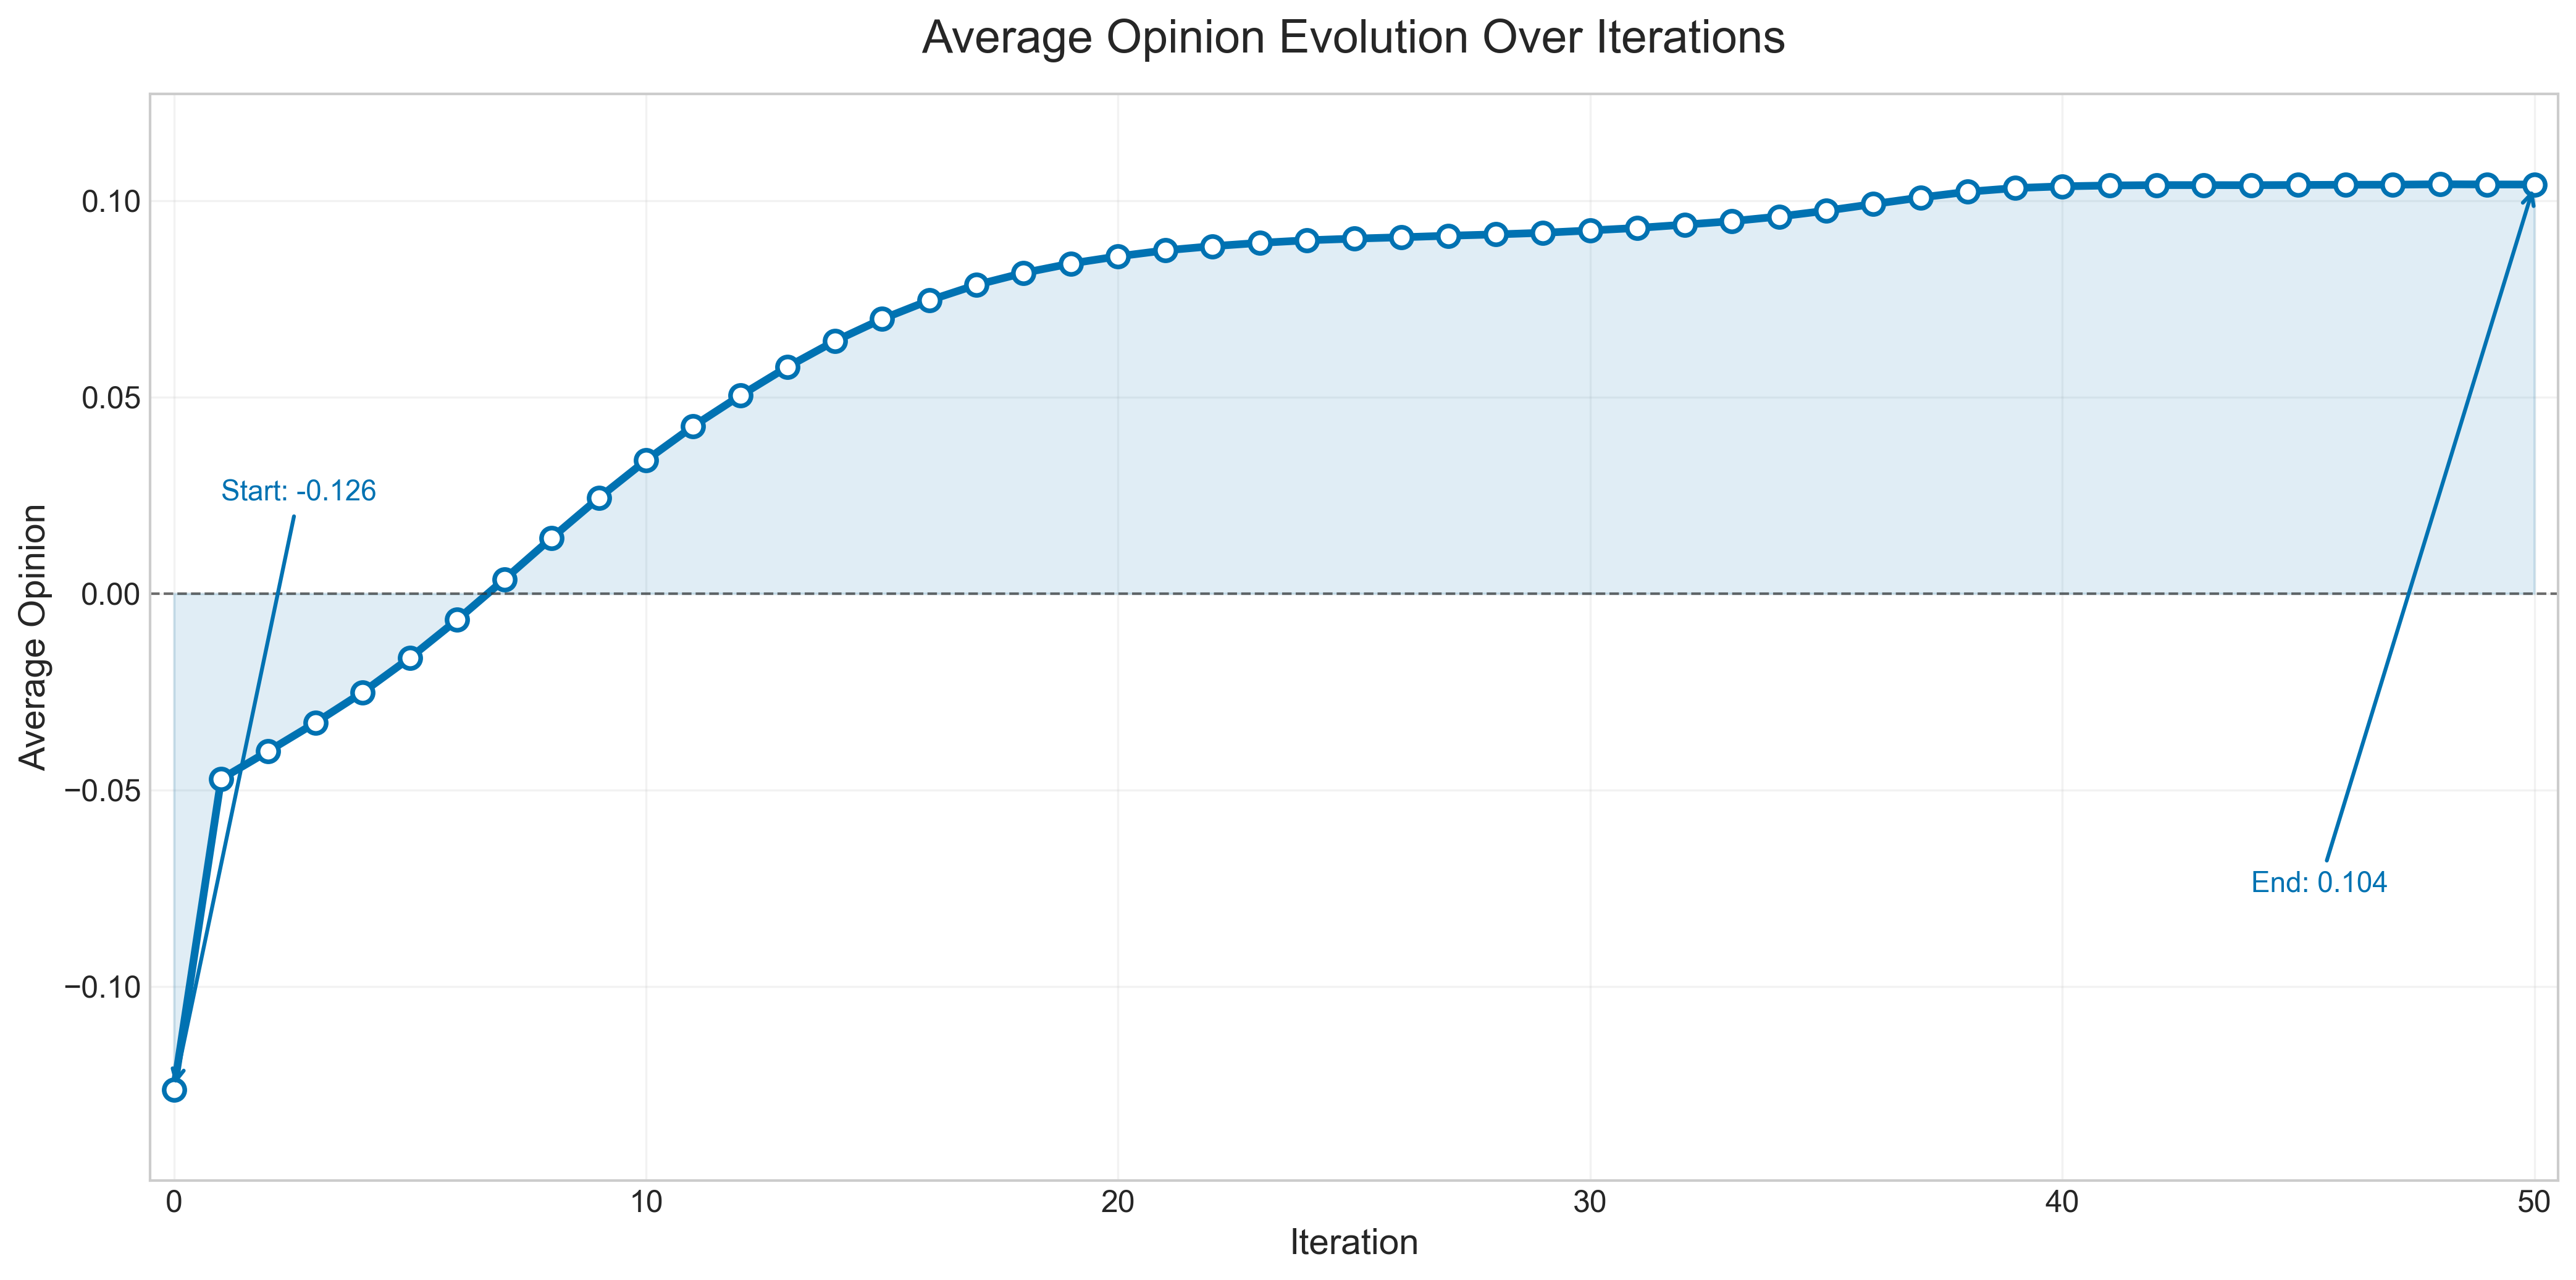
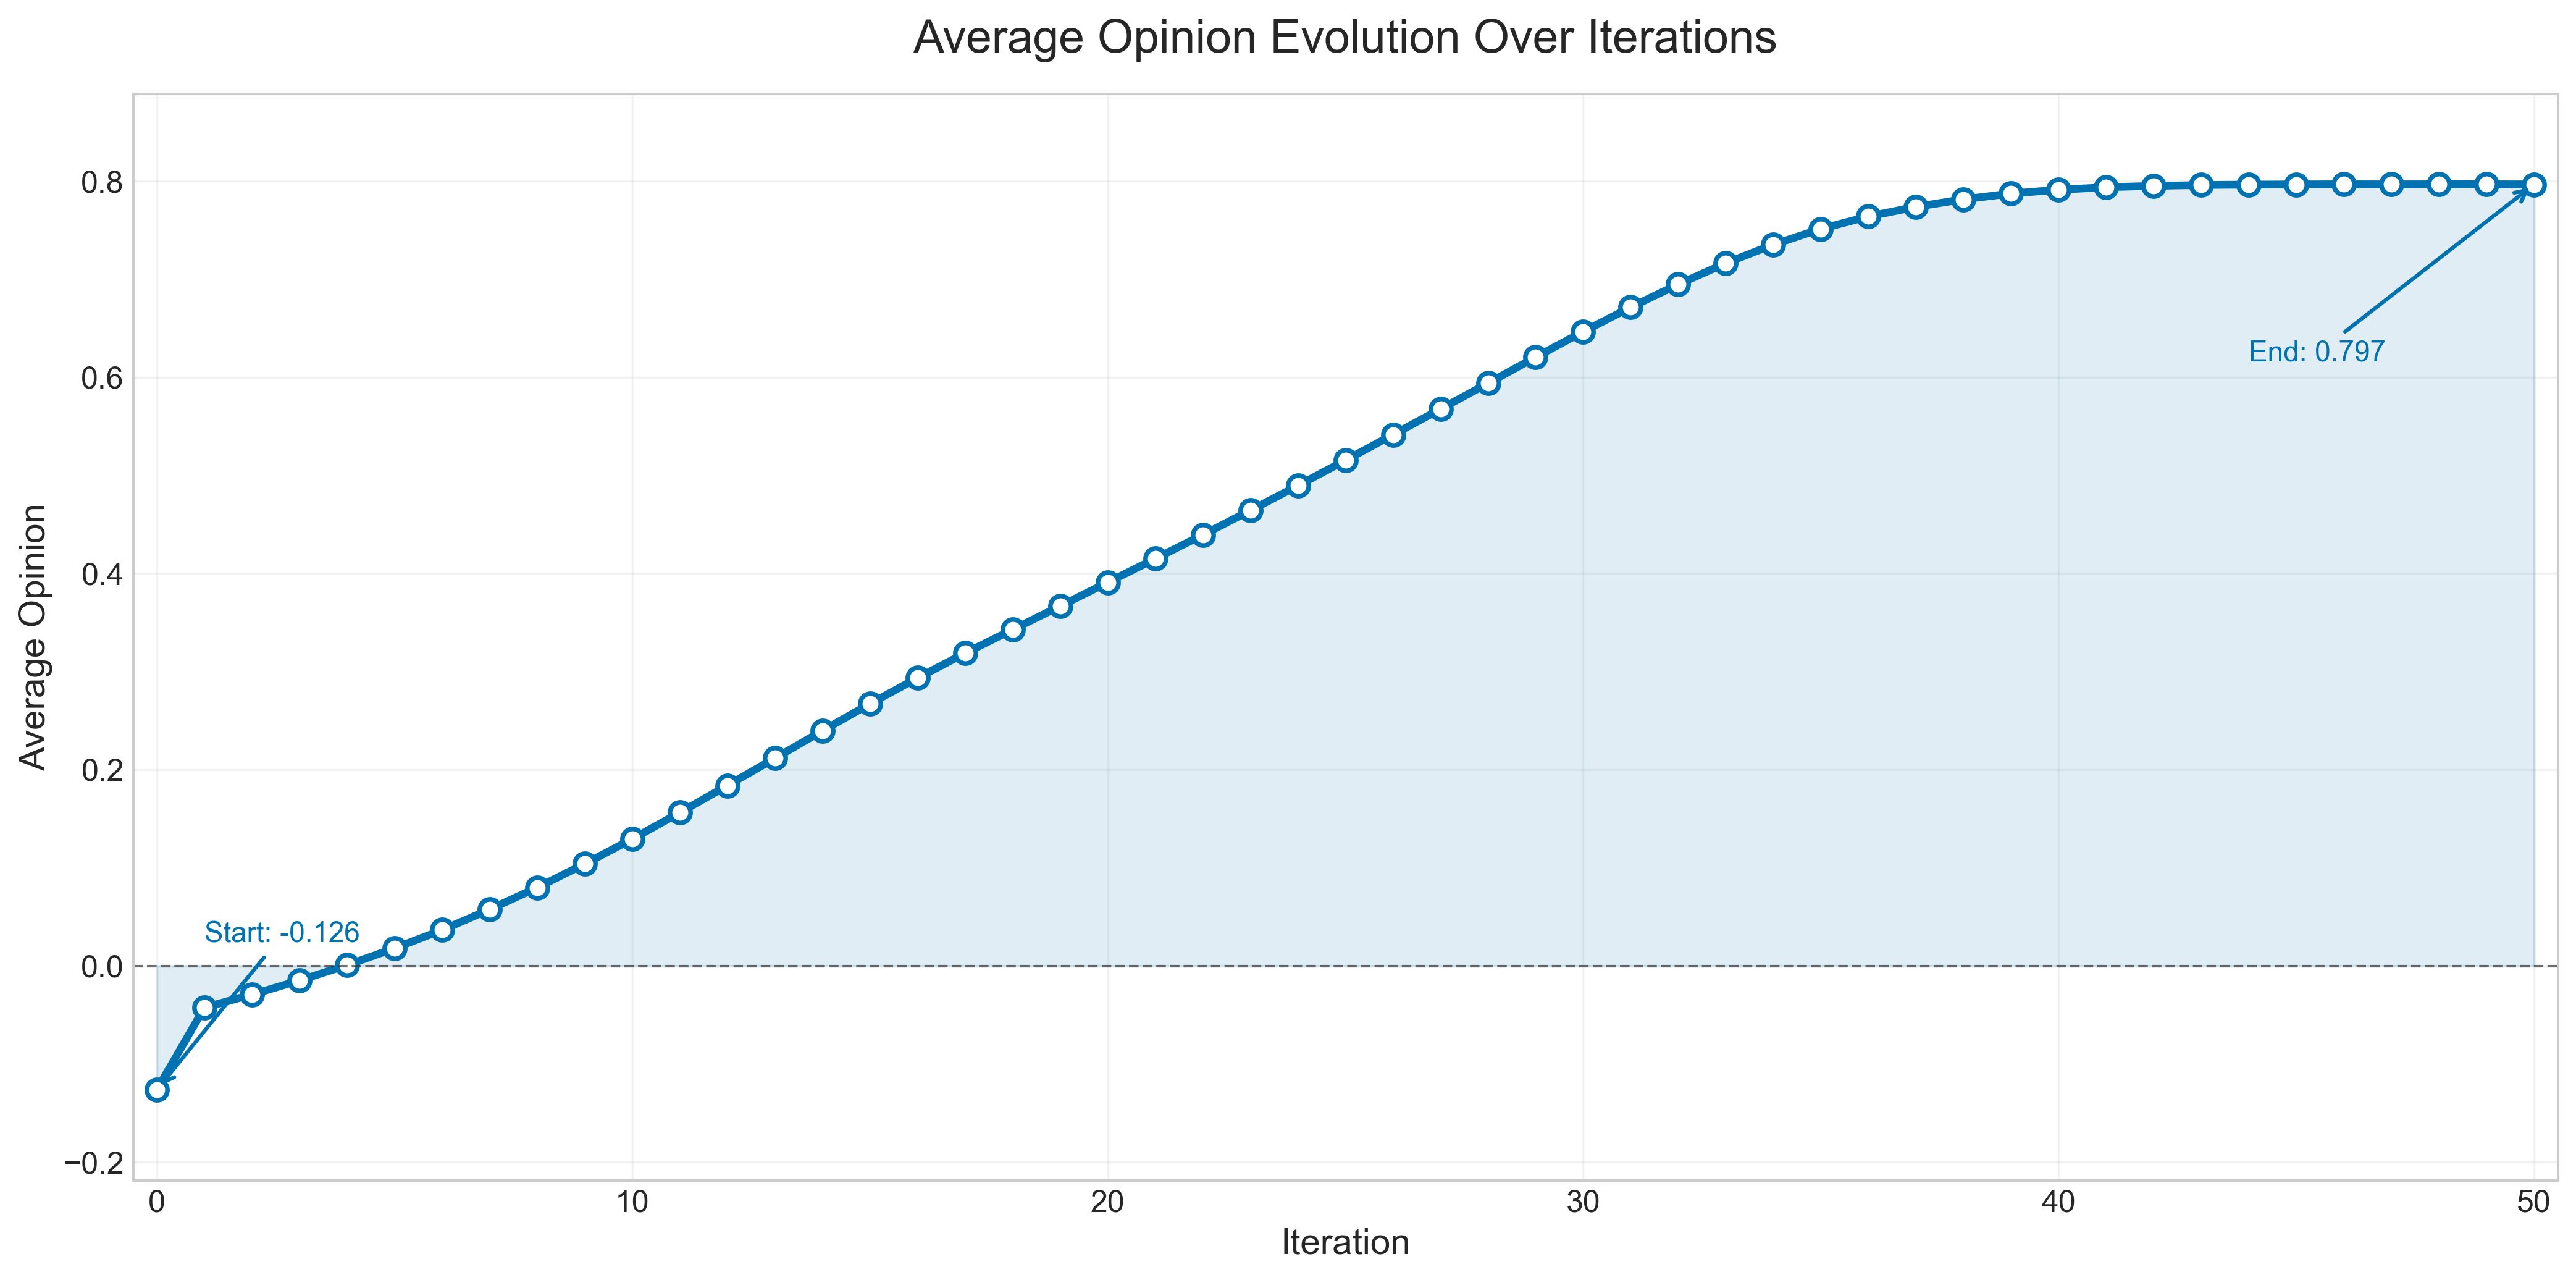
11 apr imdb complete amazon started

diff --git a/src/amazon.py b/src/amazon.py
@@ -1,0 +1,178 @@
+import pandas as pd
+import networkx as nx
+import random
+from tqdm import tqdm
+import os
+import math
+import nltk
+from nltk.sentiment import SentimentIntensityAnalyzer
+
+# =========================
+# DOWNLOAD (FIRST TIME ONLY)
+# =========================
+nltk.download('vader_lexicon')
+sia = SentimentIntensityAnalyzer()
+
+# =========================
+# PARAMETERS
+# =========================
+NUM_ITERATIONS = 50
+REVIEWS_PER_ITER = 100
+
+alpha = 0.3   # neighbors influence (recommended)
+beta = 0.2    # reviews influence
+
+base_path = r"D:\SEM-6\Project\data\raw"
+
+# =========================
+# LOAD FILES
+# =========================
+edges_df = pd.read_csv(os.path.join(base_path, "social_network.csv"))
+users_df = pd.read_csv(os.path.join(base_path, "users.csv"))
+
+amazon_df = pd.read_csv(
+    os.path.join(base_path, "Amazon_Reviews.csv"),
+    on_bad_lines='skip',
+    engine='python'
+)
+
+# =========================
+# PREPROCESS AMAZON DATA
+# =========================
+
+# ---- Rating → numeric ----
+amazon_df['Rating'] = amazon_df['Rating'].astype(str).str.extract(r'(\d)').astype(float)
+
+# ---- Normalize rating [-1,1] ----
+amazon_df['rating_opinion'] = (amazon_df['Rating'] - 3) / 2
+
+# ---- Sentiment from text ----
+def get_sentiment(text):
+    text = str(text)
+    return sia.polarity_scores(text)["compound"]
+
+amazon_df['sentiment'] = amazon_df['Review Text'].apply(get_sentiment)
+
+# ---- Final opinion ----
+amazon_df['final_opinion'] = 0.5 * amazon_df['rating_opinion'] + 0.5 * amazon_df['sentiment']
+
+# ---- Review count → weight ----
+amazon_df['Review Count'] = amazon_df['Review Count'].astype(str).str.extract(r'(\d+)').astype(float)
+amazon_df['weight'] = 1 + amazon_df['Review Count'].fillna(1)
+
+# ---- Optional: time decay (can comment if not needed) ----
+amazon_df['Review Date'] = pd.to_datetime(amazon_df['Review Date'], errors='coerce')
+latest_date = amazon_df['Review Date'].max()
+
+amazon_df['time_diff'] = (latest_date - amazon_df['Review Date']).dt.days
+amazon_df['time_diff'] = amazon_df['time_diff'].fillna(0)
+
+amazon_df['time_weight'] = 1 / (1 + amazon_df['time_diff'])
+amazon_df['weight'] = amazon_df['weight'] * amazon_df['time_weight']
+
+# ---- Clean ----
+amazon_df = amazon_df.dropna(subset=['final_opinion'])
+
+# ---- Create sampling lists ----
+review_opinions = amazon_df['final_opinion'].tolist()
+review_weights = amazon_df['weight'].tolist()
+
+# =========================
+# CREATE GRAPH
+# =========================
+G = nx.from_pandas_edgelist(edges_df, "source", "target")
+
+# =========================
+# INITIAL OPINIONS
+# =========================
+opinion_dict = dict(zip(users_df["user"], users_df["opinion"]))
+
+for node in G.nodes():
+    val = opinion_dict.get(node, None)
+    if pd.isna(val):
+        G.nodes[node]['opinion'] = None
+    else:
+        G.nodes[node]['opinion'] = float(val)
+
+# =========================
+# LOG STORAGE
+# =========================
+opinion_logs = {node: [] for node in G.nodes()}
+
+# initial state
+for node in G.nodes():
+    opinion_logs[node].append(G.nodes[node]['opinion'])
+
+# =========================
+# FUNCTION: SAMPLE REVIEWS
+# =========================
+def sample_reviews(k=100):
+    sampled = random.choices(
+        list(zip(review_opinions, review_weights)),
+        weights=review_weights,
+        k=k
+    )
+    opinions = [x[0] for x in sampled]
+    return sum(opinions) / len(opinions)
+
+# =========================
+# SIMULATION LOOP
+# =========================
+for it in tqdm(range(NUM_ITERATIONS), desc="Iterations"):
+
+    new_opinions = {}
+
+    for node in G.nodes():
+        current_opinion = G.nodes[node]['opinion']
+
+        # -------- neighbors --------
+        neighbors = list(G.neighbors(node))
+        neighbor_opinions = [
+            G.nodes[n]['opinion']
+            for n in neighbors
+            if G.nodes[n]['opinion'] is not None
+        ]
+
+        if neighbor_opinions:
+            neighbor_avg = sum(neighbor_opinions) / len(neighbor_opinions)
+        else:
+            neighbor_avg = 0
+
+        # -------- reviews --------
+        review_avg = sample_reviews(REVIEWS_PER_ITER)
+
+        # -------- update rule --------
+        if current_opinion is None:
+            raw_update = 0.5 * neighbor_avg + 0.5 * review_avg
+        else:
+            raw_update = (
+                (1 - alpha - beta) * current_opinion
+                + alpha * neighbor_avg
+                + beta * review_avg
+            )
+
+        # -------- NON-LINEAR TRANSFORMATION --------
+        new_opinion = math.tanh(1.2 * raw_update)  # smoother than 1.5
+
+        new_opinions[node] = new_opinion
+
+    # apply updates
+    for node in G.nodes():
+        G.nodes[node]['opinion'] = new_opinions[node]
+
+    # store logs
+    for node in G.nodes():
+        opinion_logs[node].append(G.nodes[node]['opinion'])
+
+# =========================
+# SAVE RESULTS
+# =========================
+log_df = pd.DataFrame(opinion_logs).T
+
+log_df.columns = [f"Iter_{i}" for i in range(NUM_ITERATIONS + 1)]
+log_df.insert(0, "Node", log_df.index)
+
+output_path = r"D:\SEM-6\Project\results\logs\amazon_opinion_dynamics.xlsx"
+log_df.to_excel(output_path, index=False)
+
+print(f"✅ Simulation complete. File saved at: {output_path}")

diff --git a/src/visualization/amazon_opinion_visualization.py b/src/visualization/amazon_opinion_visualization.py
@@ -1,0 +1,167 @@
+import pandas as pd
+import matplotlib.pyplot as plt
+import seaborn as sns
+import numpy as np
+import os
+
+# =========================
+# LOAD DATA
+# =========================
+results_path = r"D:\SEM-6\Project\results\logs\amazon_opinion_dynamics.xlsx"
+log_df = pd.read_csv(results_path.replace('.xlsx', '.csv')) if not os.path.exists(results_path) else pd.read_excel(results_path)
+
+# Set Node as index if it's a column
+if 'Node' in log_df.columns:
+    log_df.set_index('Node', inplace=True)
+
+# =========================
+# FIGURE 1: OPINION EVOLUTION OVER TIME (Line Plot)
+# =========================
+plt.figure(figsize=(14, 6))
+
+# Plot a sample of nodes (every 10th node for clarity)
+sample_nodes = log_df.index[::max(1, len(log_df) // 10)]
+
+for node in sample_nodes:
+    plt.plot(log_df.loc[node], marker='o', label=f'Node {node}', alpha=0.7, markersize=3)
+
+plt.xlabel('Iteration', fontsize=12)
+plt.ylabel('Opinion', fontsize=12)
+plt.title('Opinion Evolution Over Iterations (Sample Nodes)', fontsize=14, fontweight='bold')
+plt.legend(bbox_to_anchor=(1.05, 1), loc='upper left', fontsize=8)
+plt.grid(True, alpha=0.3)
+plt.tight_layout()
+plt.savefig(r"D:\SEM-6\Project\results\plots\opinion_evolution_line.png", dpi=300, bbox_inches='tight')
+print("✅ Saved: opinion_evolution_line.png")
+plt.close()
+
+# =========================
+# FIGURE 2: HEATMAP OF ALL OPINIONS
+# =========================
+plt.figure(figsize=(16, 8))
+sns.heatmap(log_df, cmap='RdYlGn', center=0, cbar_kws={'label': 'Opinion'})
+plt.title('Opinion Heatmap - All Nodes Over Time', fontsize=14, fontweight='bold')
+plt.xlabel('Iteration', fontsize=12)
+plt.ylabel('Node', fontsize=12)
+plt.tight_layout()
+plt.savefig(r"D:\SEM-6\Project\results\plots\opinion_heatmap.png", dpi=300, bbox_inches='tight')
+print("✅ Saved: opinion_heatmap.png")
+plt.close()
+
+# =========================
+# FIGURE 3: AVERAGE OPINION TREND
+# =========================
+avg_opinion = log_df.mean(axis=0)
+
+plt.figure(figsize=(12, 6))
+plt.plot(avg_opinion, marker='o', linewidth=2, markersize=6, color='#2E86AB')
+plt.fill_between(range(len(avg_opinion)), avg_opinion, alpha=0.3, color='#2E86AB')
+plt.xlabel('Iteration', fontsize=12)
+plt.ylabel('Average Opinion', fontsize=12)
+plt.title('Average Network Opinion Over Time', fontsize=14, fontweight='bold')
+plt.grid(True, alpha=0.3)
+plt.tight_layout()
+plt.savefig(r"D:\SEM-6\Project\results\plots\average_opinion_trend.png", dpi=300, bbox_inches='tight')
+print("✅ Saved: average_opinion_trend.png")
+plt.close()
+
+# =========================
+# FIGURE 4: OPINION DISTRIBUTION BOXPLOT
+# =========================
+# Get opinions at different iterations
+iterations_to_plot = [0, len(avg_opinion)//4, len(avg_opinion)//2, 3*len(avg_opinion)//4, len(avg_opinion)-1]
+box_data = []
+labels = []
+
+for it in iterations_to_plot:
+    if it < len(log_df.columns):
+        col_name = log_df.columns[it]
+        box_data.append(log_df[col_name].dropna())
+        labels.append(f'Iter {it}')
+
+plt.figure(figsize=(12, 6))
+bp = plt.boxplot(box_data, labels=labels, patch_artist=True)
+
+# Color the boxes
+colors = plt.cm.RdYlGn(np.linspace(0, 1, len(box_data)))
+for patch, color in zip(bp['boxes'], colors):
+    patch.set_facecolor(color)
+
+plt.ylabel('Opinion', fontsize=12)
+plt.title('Opinion Distribution at Different Iterations', fontsize=14, fontweight='bold')
+plt.grid(True, alpha=0.3, axis='y')
+plt.tight_layout()
+plt.savefig(r"D:\SEM-6\Project\results\plots\opinion_distribution_boxplot.png", dpi=300, bbox_inches='tight')
+print("✅ Saved: opinion_distribution_boxplot.png")
+plt.close()
+
+# =========================
+# FIGURE 5: VARIANCE OVER TIME
+# =========================
+variance = log_df.var(axis=0)
+std_dev = log_df.std(axis=0)
+
+fig, (ax1, ax2) = plt.subplots(2, 1, figsize=(12, 8))
+
+# Variance
+ax1.plot(variance, marker='s', linewidth=2, color='#A23B72', markersize=5)
+ax1.fill_between(range(len(variance)), variance, alpha=0.3, color='#A23B72')
+ax1.set_ylabel('Variance', fontsize=11)
+ax1.set_title('Opinion Variance Over Time', fontsize=12, fontweight='bold')
+ax1.grid(True, alpha=0.3)
+
+# Standard Deviation
+ax2.plot(std_dev, marker='o', linewidth=2, color='#F18F01', markersize=5)
+ax2.fill_between(range(len(std_dev)), std_dev, alpha=0.3, color='#F18F01')
+ax2.set_xlabel('Iteration', fontsize=11)
+ax2.set_ylabel('Standard Deviation', fontsize=11)
+ax2.set_title('Opinion Standard Deviation Over Time', fontsize=12, fontweight='bold')
+ax2.grid(True, alpha=0.3)
+
+plt.tight_layout()
+plt.savefig(r"D:\SEM-6\Project\results\plots\opinion_variance_trend.png", dpi=300, bbox_inches='tight')
+print("✅ Saved: opinion_variance_trend.png")
+plt.close()
+
+# =========================
+# FIGURE 6: HISTOGRAM - INITIAL vs FINAL OPINIONS
+# =========================
+initial_opinions = log_df.iloc[:, 0].dropna()
+final_opinions = log_df.iloc[:, -1].dropna()
+
+fig, (ax1, ax2) = plt.subplots(1, 2, figsize=(14, 5))
+
+ax1.hist(initial_opinions, bins=20, color='#E63946', alpha=0.7, edgecolor='black')
+ax1.set_xlabel('Opinion', fontsize=11)
+ax1.set_ylabel('Frequency', fontsize=11)
+ax1.set_title('Initial Opinions Distribution', fontsize=12, fontweight='bold')
+ax1.grid(True, alpha=0.3, axis='y')
+
+ax2.hist(final_opinions, bins=20, color='#06A77D', alpha=0.7, edgecolor='black')
+ax2.set_xlabel('Opinion', fontsize=11)
+ax2.set_ylabel('Frequency', fontsize=11)
+ax2.set_title('Final Opinions Distribution', fontsize=12, fontweight='bold')
+ax2.grid(True, alpha=0.3, axis='y')
+
+plt.tight_layout()
+plt.savefig(r"D:\SEM-6\Project\results\plots\initial_vs_final_distribution.png", dpi=300, bbox_inches='tight')
+print("✅ Saved: initial_vs_final_distribution.png")
+plt.close()
+
+# =========================
+# SUMMARY STATISTICS
+# =========================
+print("\n" + "="*60)
+print("OPINION DYNAMICS SUMMARY")
+print("="*60)
+print(f"Total Nodes: {len(log_df)}")
+print(f"Total Iterations: {len(log_df.columns)}")
+print(f"\nInitial Average Opinion: {initial_opinions.mean():.4f}")
+print(f"Final Average Opinion: {final_opinions.mean():.4f}")
+print(f"Opinion Change: {final_opinions.mean() - initial_opinions.mean():.4f}")
+print(f"\nInitial Std Dev: {initial_opinions.std():.4f}")
+print(f"Final Std Dev: {final_opinions.std():.4f}")
+print(f"Convergence (Δ Std): {initial_opinions.std() - final_opinions.std():.4f}")
+print("="*60 + "\n")
+
+print("✅ All visualizations saved to D:\\SEM-6\\Project\\results\\plots\\")

diff --git a/src/main2.py b/src/main2.py
@@ -11,8 +11,8 @@ import math
 NUM_ITERATIONS = 50
 REVIEWS_PER_ITER = 100
 
-alpha = 0.1   # neighbors influence
-beta = 0.05    # reviews influence
+alpha = 0.15   # neighbors influence
+beta = 0.1   # reviews influence
 
 base_path = r"D:\SEM-6\Project\data\raw"
 

diff --git a/src/tempCodeRunnerFile.py b/src/tempCodeRunnerFile.py
@@ -1,0 +1,1 @@
+out